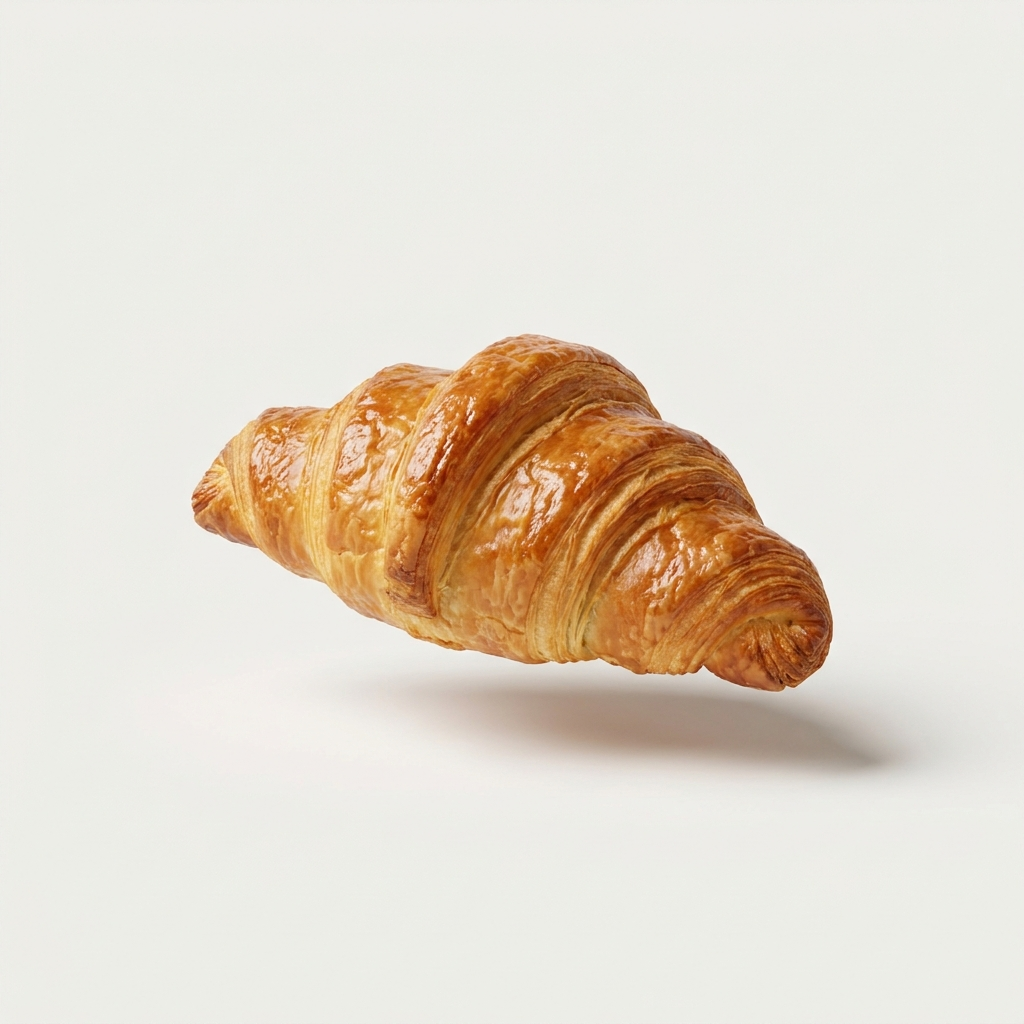
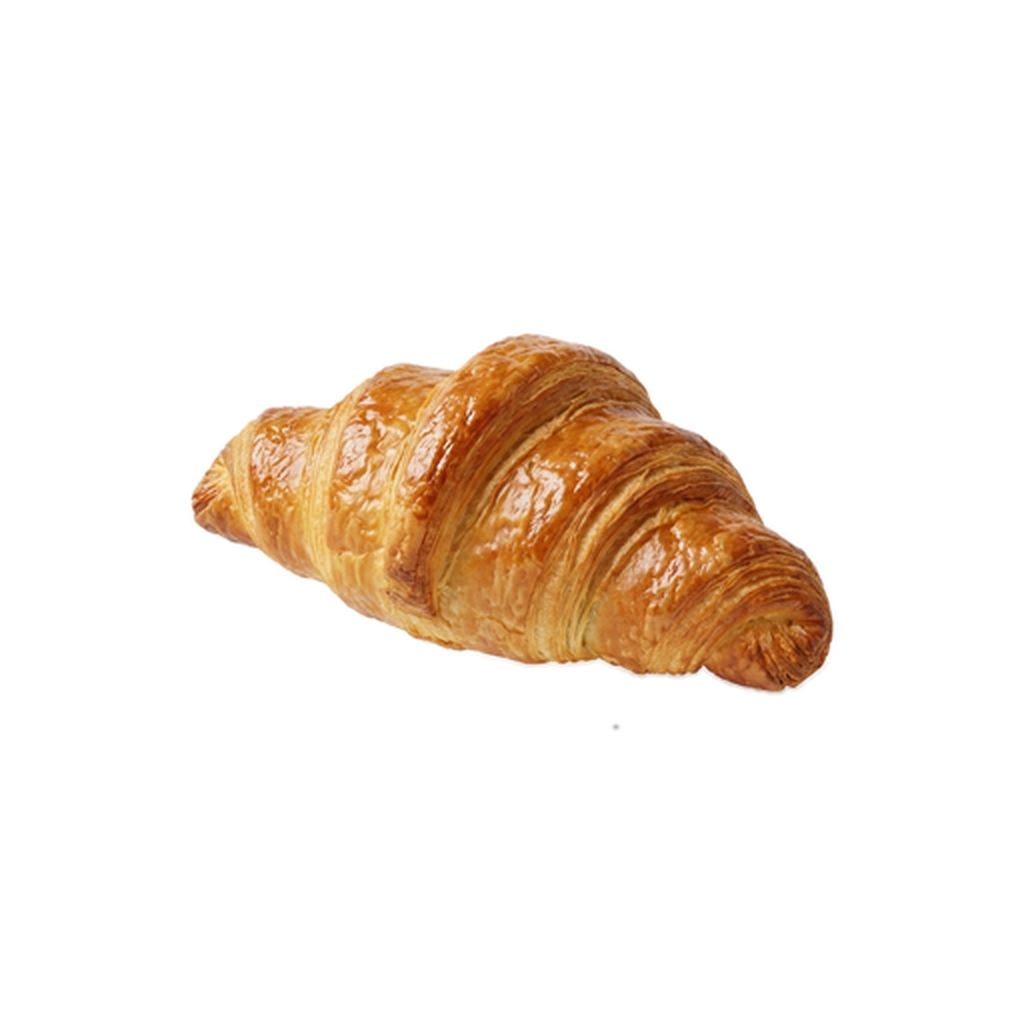
ORD-3D-4b: burger assembles closed on add + transparent standard heroes

diff --git a/src/components/order/LayeredProduct.tsx b/src/components/order/LayeredProduct.tsx
@@ -4,16 +4,40 @@ import { INGREDIENT_PATHS, BURGER_STACK_ORDER, type IngredientKey } from './ingr
 
 const MAX_LAYERS = BURGER_STACK_ORDER.length
 
-interface Props {
-  layers: IngredientKey[]
-  size?: number
-  baseOffset?: number
+/**
+ * How many px each ingredient raises the layer sitting above it.
+ * Tuned so the resting burger reads as closed/assembled, not spaced cards.
+ * Patty and bun-top carry the most visual mass; condiments are nearly flush.
+ */
+const LAYER_RISE: Record<IngredientKey, number> = {
+  'bun-bottom': 20,
+  'patty':      22,
+  'cheese':      8,
+  'bacon':      10,
+  'tomato':     10,
+  'lettuce':    12,
+  'onion':       8,
+  'pickle':      6,
+  'sauce':       4,
+  'bun-top':     0,
 }
+
+/** Total rise for a full stack at size=277 (277+100=377 container height) */
+const MAX_RISE = (BURGER_STACK_ORDER as IngredientKey[]).reduce(
+  (s, k) => s + LAYER_RISE[k],
+  0,
+)
 
 const SPRING = { type: 'spring' as const, stiffness: 260, damping: 22, mass: 0.9 }
 
-export function LayeredProduct({ layers, size = 277, baseOffset = 28 }: Props) {
-  const containerH = size + (MAX_LAYERS - 1) * baseOffset
+interface Props {
+  layers: IngredientKey[]
+  size?: number
+}
+
+export function LayeredProduct({ layers, size = 277 }: Props) {
+  const scale = size / 277
+  const containerH = size + Math.round(MAX_RISE * scale)
   const plateW = Math.round(size * 0.88)
 
   return (
@@ -43,29 +67,34 @@ export function LayeredProduct({ layers, size = 277, baseOffset = 28 }: Props) {
       />
 
       <AnimatePresence>
-        {layers.map((key, i) => (
-          <motion.img
-            key={key}
-            src={INGREDIENT_PATHS[key]}
-            alt={key}
-            layout
-            initial={{ y: -28, opacity: 0 }}
-            animate={{ y: 0, opacity: 1 }}
-            exit={{ y: -16, opacity: 0 }}
-            transition={SPRING}
-            style={{
-              position: 'absolute',
-              width: size,
-              height: size,
-              objectFit: 'contain',
-              bottom: i * baseOffset,
-              left: 0,
-              pointerEvents: 'none',
-              userSelect: 'none',
-              zIndex: i + 1,
-            }}
-          />
-        ))}
+        {layers.map((key, i) => {
+          const bottom = Math.round(
+            layers.slice(0, i).reduce((sum, k) => sum + LAYER_RISE[k], 0) * scale,
+          )
+          return (
+            <motion.img
+              key={key}
+              src={INGREDIENT_PATHS[key]}
+              alt={key}
+              layout
+              initial={{ y: -60, opacity: 0 }}
+              animate={{ y: 0, opacity: 1 }}
+              exit={{ y: -30, opacity: 0 }}
+              transition={SPRING}
+              style={{
+                position: 'absolute',
+                width: size,
+                height: size,
+                objectFit: 'contain',
+                bottom,
+                left: 0,
+                pointerEvents: 'none',
+                userSelect: 'none',
+                zIndex: i + 1,
+              }}
+            />
+          )
+        })}
       </AnimatePresence>
     </div>
   )
